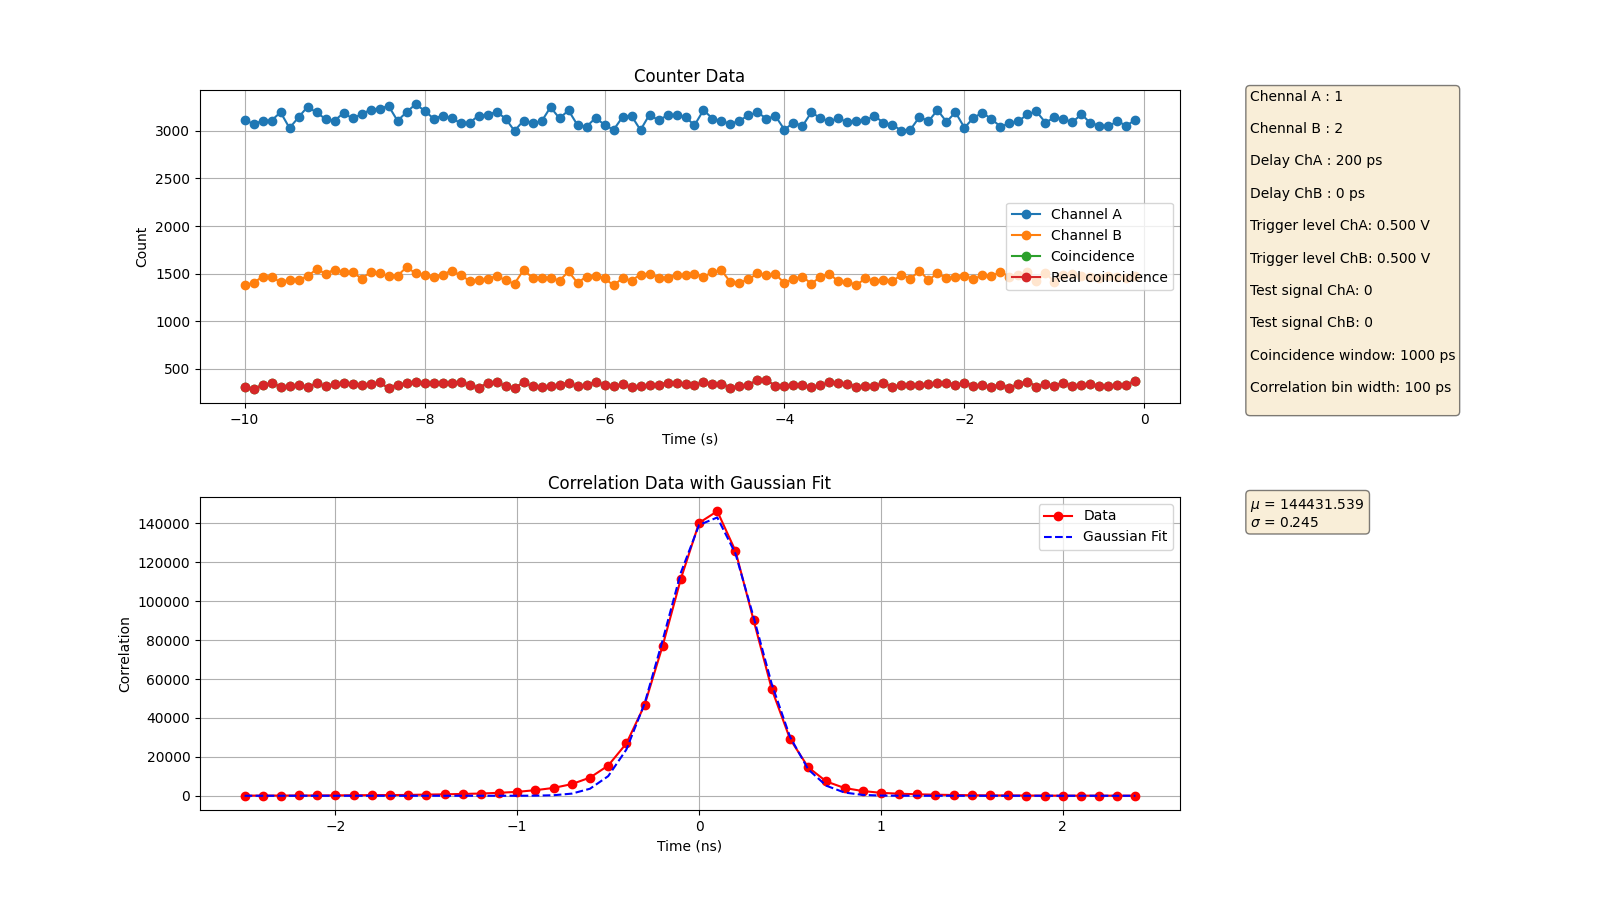
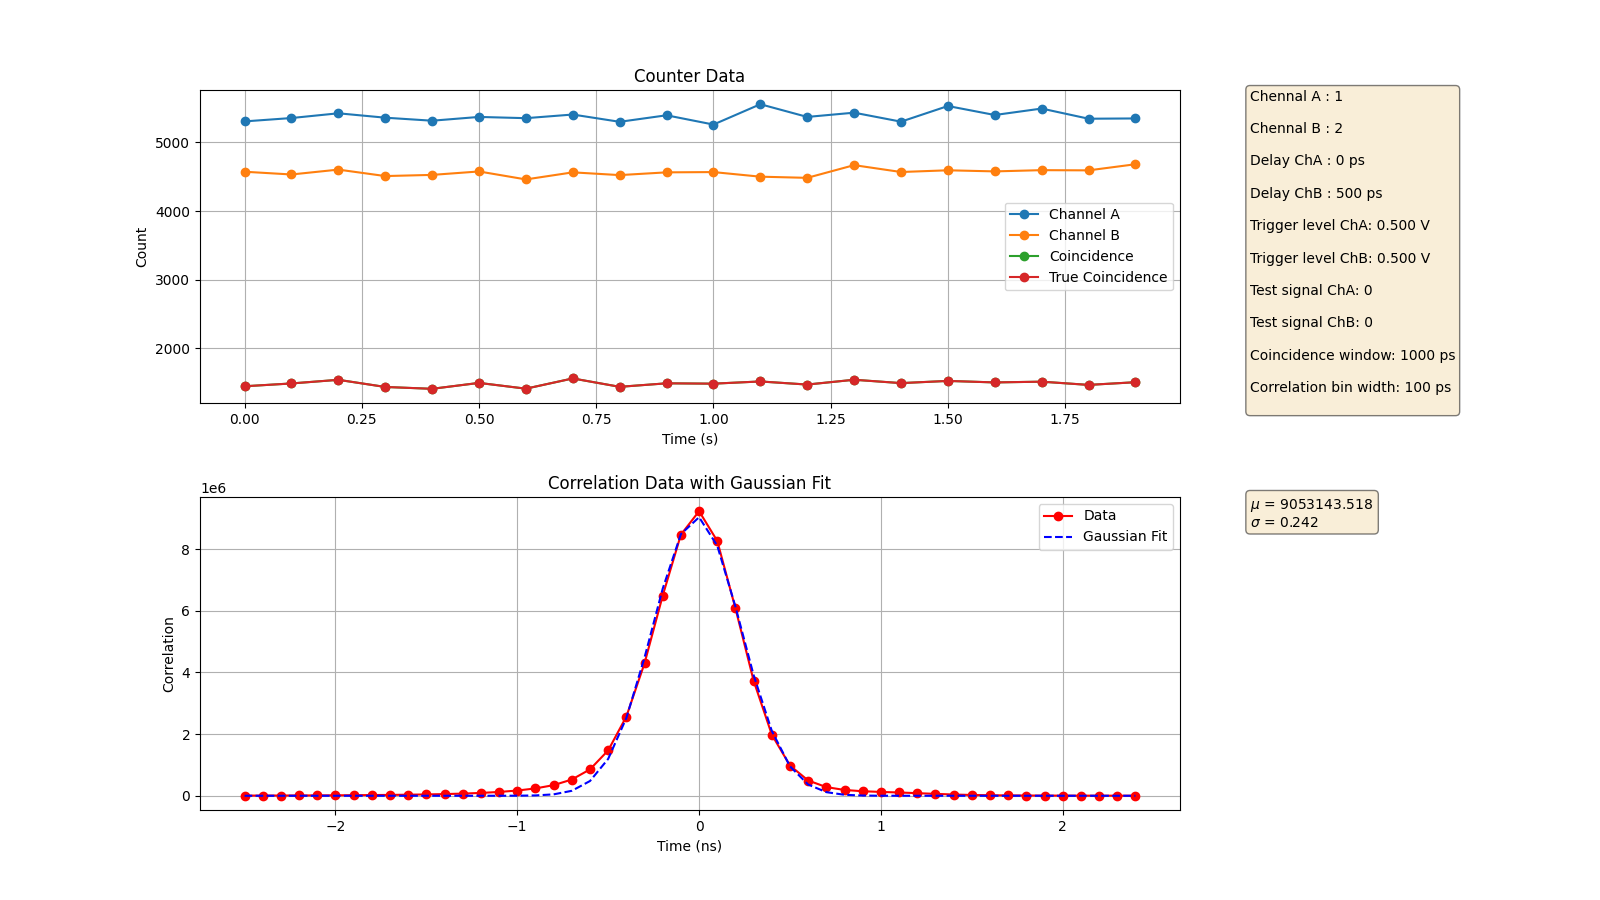
get new result

diff --git a/TimeTagger/data_to_fig.py b/TimeTagger/data_to_fig.py
@@ -3,7 +3,7 @@ import matplotlib.pyplot as plt
 import re
 from scipy.optimize import curve_fit
 
-Channel_name = ['Channel A', 'Channel B', 'Coincidence']
+Channel_name = ['Channel A', 'Channel B', 'Coincidence', 'True Coincidence']
 resolution = 20
 props = dict(boxstyle='round', facecolor='wheat', alpha=0.5)
 bin_width = 0.1
@@ -22,10 +22,9 @@ def gaussian(x, a, mu, sigma):
 
 
 # 파일 경로
-file_path = "CoincidenceExampleData_16.txt"
+file_path = "CoincidenceExampleData_30.txt"
 fig = plt.figure(num=1, figsize=(16, 9))
 fig1 = plt.figure(num=2, figsize=(14, 7))
-fig2 = plt.figure(num=3, figsize=(14, 7))
 
 # 데이터 읽기
 with open(file_path, "r") as file:
@@ -62,17 +61,18 @@ ax1 = fig.add_subplot(2, 5, (1, 4))
 accidental = 0
 real_coin = 0
 for i, row in enumerate(counter_data):
+    row = row[-21:-1]
     if i == 0:
         accidental = row
         real_coin = row
     elif i == 1: accidental = accidental*row
     elif i == 2: real_coin = row - accidental*cw*1e-12
-    ax1.plot((np.arange(len(row))-len(row))/(bin_width*np.shape(counter_data)[1]), row, 'o-')
-ax1.plot((np.arange(len(row))-len(row))/(bin_width*np.shape(counter_data)[1]), real_coin, 'o-')
+    ax1.plot((np.arange(len(row)))/(bin_width*np.shape(counter_data)[1]), row, 'o-')
+ax1.plot((np.arange(len(row)))/(bin_width*np.shape(counter_data)[1]), real_coin, 'o-')
 ax1.set_xlabel('Time (s)')
 ax1.set_ylabel('Count')
 ax1.set_title('Counter Data')
-ax1.legend((Channel_name[0], Channel_name[1], Channel_name[2], "Real coincidence"), loc=7)
+ax1.legend((Channel_name[0], Channel_name[1], Channel_name[2], Channel_name[3]), loc=7)
 ax1.grid(True)
 fig.subplots_adjust(left=0.125, bottom=0.1, right=0.9, top=0.9, wspace=0.3, hspace=0.3)
 
@@ -105,42 +105,50 @@ ax4.axis('off')
 
 
 _ax1 = fig1.add_subplot(111)
+A=0
+B=0
 accidental = 0
 coin = 0
 real_coin = 0
 for i, row in enumerate(counter_data):
+    row = row[-21:-1]
     if i == 0:
+        A = row
         accidental = row
         real_coin = row
-    elif i == 1: accidental = accidental*row
+    elif i == 1:
+        B = row
+        accidental = accidental*row
     elif i == 2:
         coin = row
         real_coin = row - accidental*cw*1e-12
-    _ax1.plot((np.arange(len(row))-len(row))/(bin_width*np.shape(counter_data)[1]), row, 'o-')
-_ax1.plot((np.arange(len(row))-len(row))/(bin_width*np.shape(counter_data)[1]), real_coin, 'o-')
+    _ax1.plot((np.arange(len(row)))/(bin_width*np.shape(counter_data)[1]), row, 'o-')
+
+over30points = np.zeros(shape=np.shape(A))
+for idx in range(np.shape(A)[0]):
+    if 0.3 <= (real_coin[idx])/np.sqrt(A[idx]*B[idx]):
+        over30points[idx] = 1
+
+_ax1.plot((np.arange(len(row)))/(bin_width*np.shape(counter_data)[1]), real_coin, 'o-')
+
+# for idx in range(np.shape(over30points)[0]):
+#     if over30points[idx] == 1:
+#         _ax1.scatter(x=(idx-len(row))/(bin_width*np.shape(counter_data)[1]), y=A[idx], c="b", zorder=10)
+#         _ax1.scatter(x=(idx-len(row))/(bin_width*np.shape(counter_data)[1]), y=B[idx], c="b", zorder=10)
+#         _ax1.scatter(x=(idx-len(row))/(bin_width*np.shape(counter_data)[1]), y=real_coin[idx], c="b", zorder=10)
+
 _ax1.set_xlabel('Time (s)')
-_ax1.set_xlim(xmax=0)
+_ax1.set_xlim(-0.1, len(row)/(bin_width*np.shape(counter_data)[1]))
 _ax1.set_ylabel('Count')
 _ax1.set_title('Counter Data')
-_ax1.legend((Channel_name[0], Channel_name[1], Channel_name[2], "Real coincidence"), loc=7)
+_ax1.legend((Channel_name[0], Channel_name[1], Channel_name[2], Channel_name[3]), loc=7)
 for i, row in enumerate(counter_data):
+    row = row[-21:-1]
     ave = np.average(row[-_n:-1])
-    _ax1.hlines(y=ave, xmin=-len(row[-_n:-1])/(bin_width*np.shape(counter_data)[1]), xmax=1, colors='k')
-    _ax1.text(x=0.1, y=float(ave-100), s="← "+"{:.3f}".format(ave), fontdict=font)
+    _ax1.hlines(y=ave, xmin=0, xmax=len(row)/(bin_width*np.shape(counter_data)[1]), colors='k')
+    _ax1.text(x=len(row)/(bin_width*np.shape(counter_data)[1]), y=float(ave-58), s="← "+"{:.3f}".format(ave), fontdict=font)
 _ax1.grid(True)
 fig1.subplots_adjust(left=0.1, bottom=0.1, right=0.8, top=0.9, wspace=0.3, hspace=0.3)
-
-_ax2 = fig2.add_subplot(111)
-_ax2.plot((np.arange(len(row))-len(row))/(bin_width*np.shape(counter_data)[1]), coin - real_coin, 'o-')
-print(np.average(coin - real_coin))
-_ax2.grid(True)
-_ax2.set_xlabel('Time (s)')
-_ax2.set_xlim(xmax=0)
-_ax2.set_ylim(ymin=0, ymax = np.max(coin - real_coin)*1.5)
-_ax2.set_ylabel('Difference')
-_ax2.set_title('Coincidence Counts - Real Coincidence Counts')
-#_ax2.legend("(coinsidence counts) - (real coincidence counts)", loc=0)
-fig2.subplots_adjust(left=0.1, bottom=0.1, right=0.8, top=0.9, wspace=0.3, hspace=0.3)
 
 plt.show()
 fig.savefig(fname='result fig.png')

diff --git a/ThorLabs/SLM.py b/ThorLabs/SLM.py
@@ -3,3 +3,9 @@ import numpy as np
 
 arr = np.zeros(shape=(100, 100))
 
+x = np.linspace(start=-10, stop=10, num=100)
+y = x
+
+X, Y = np.meshgrid(x, y)
+
+cv2.imshow()
